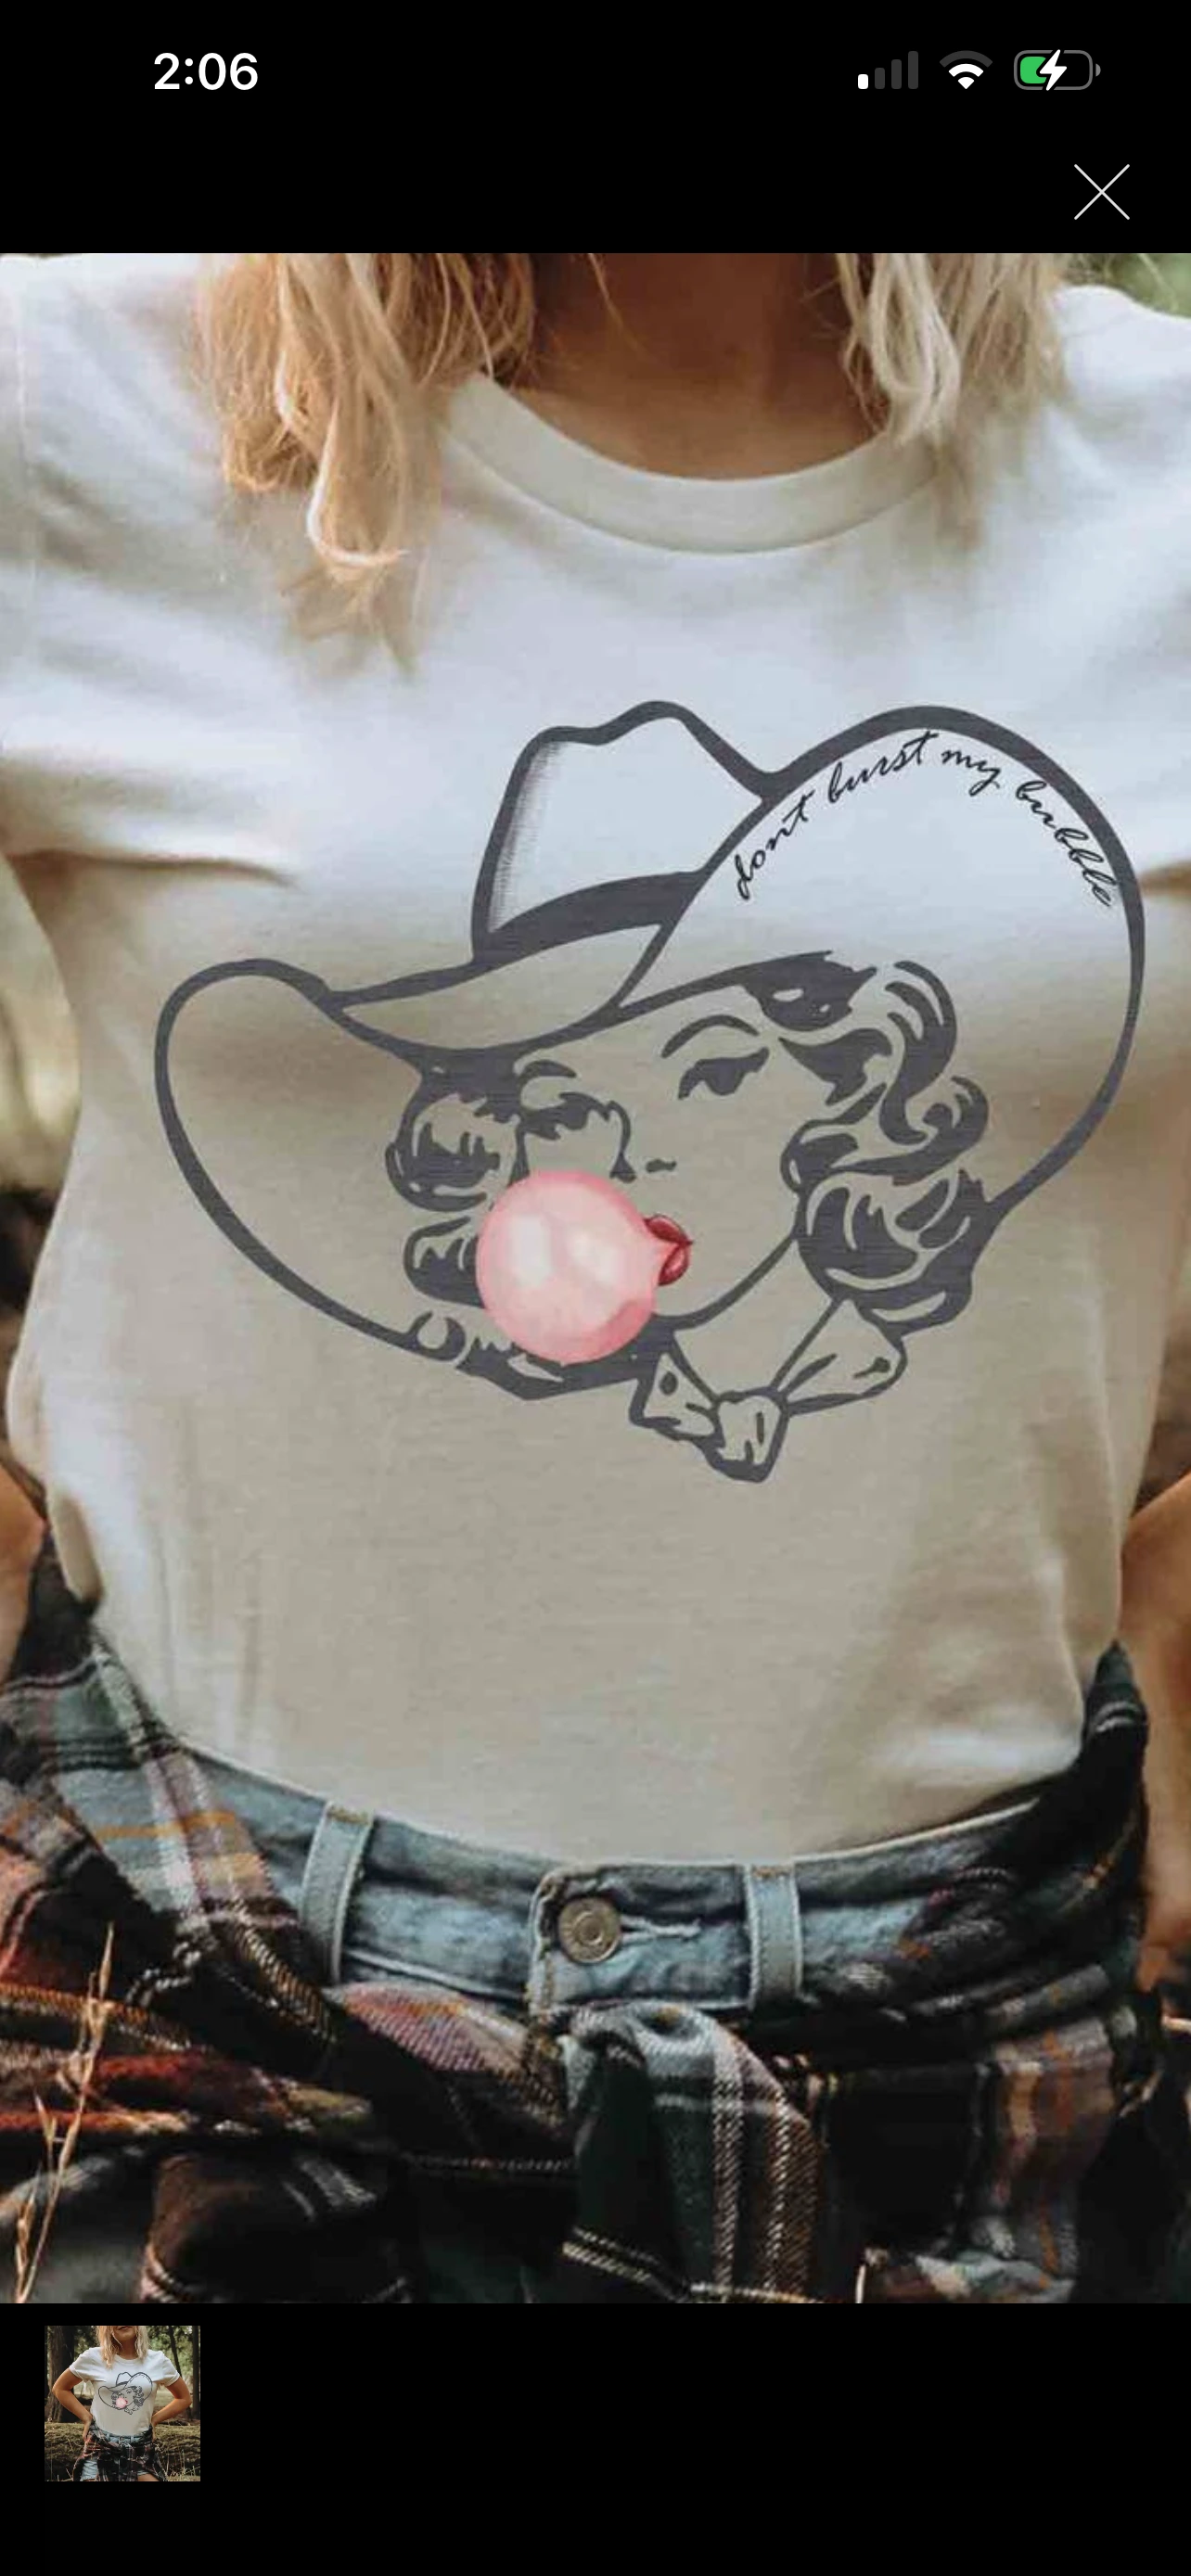
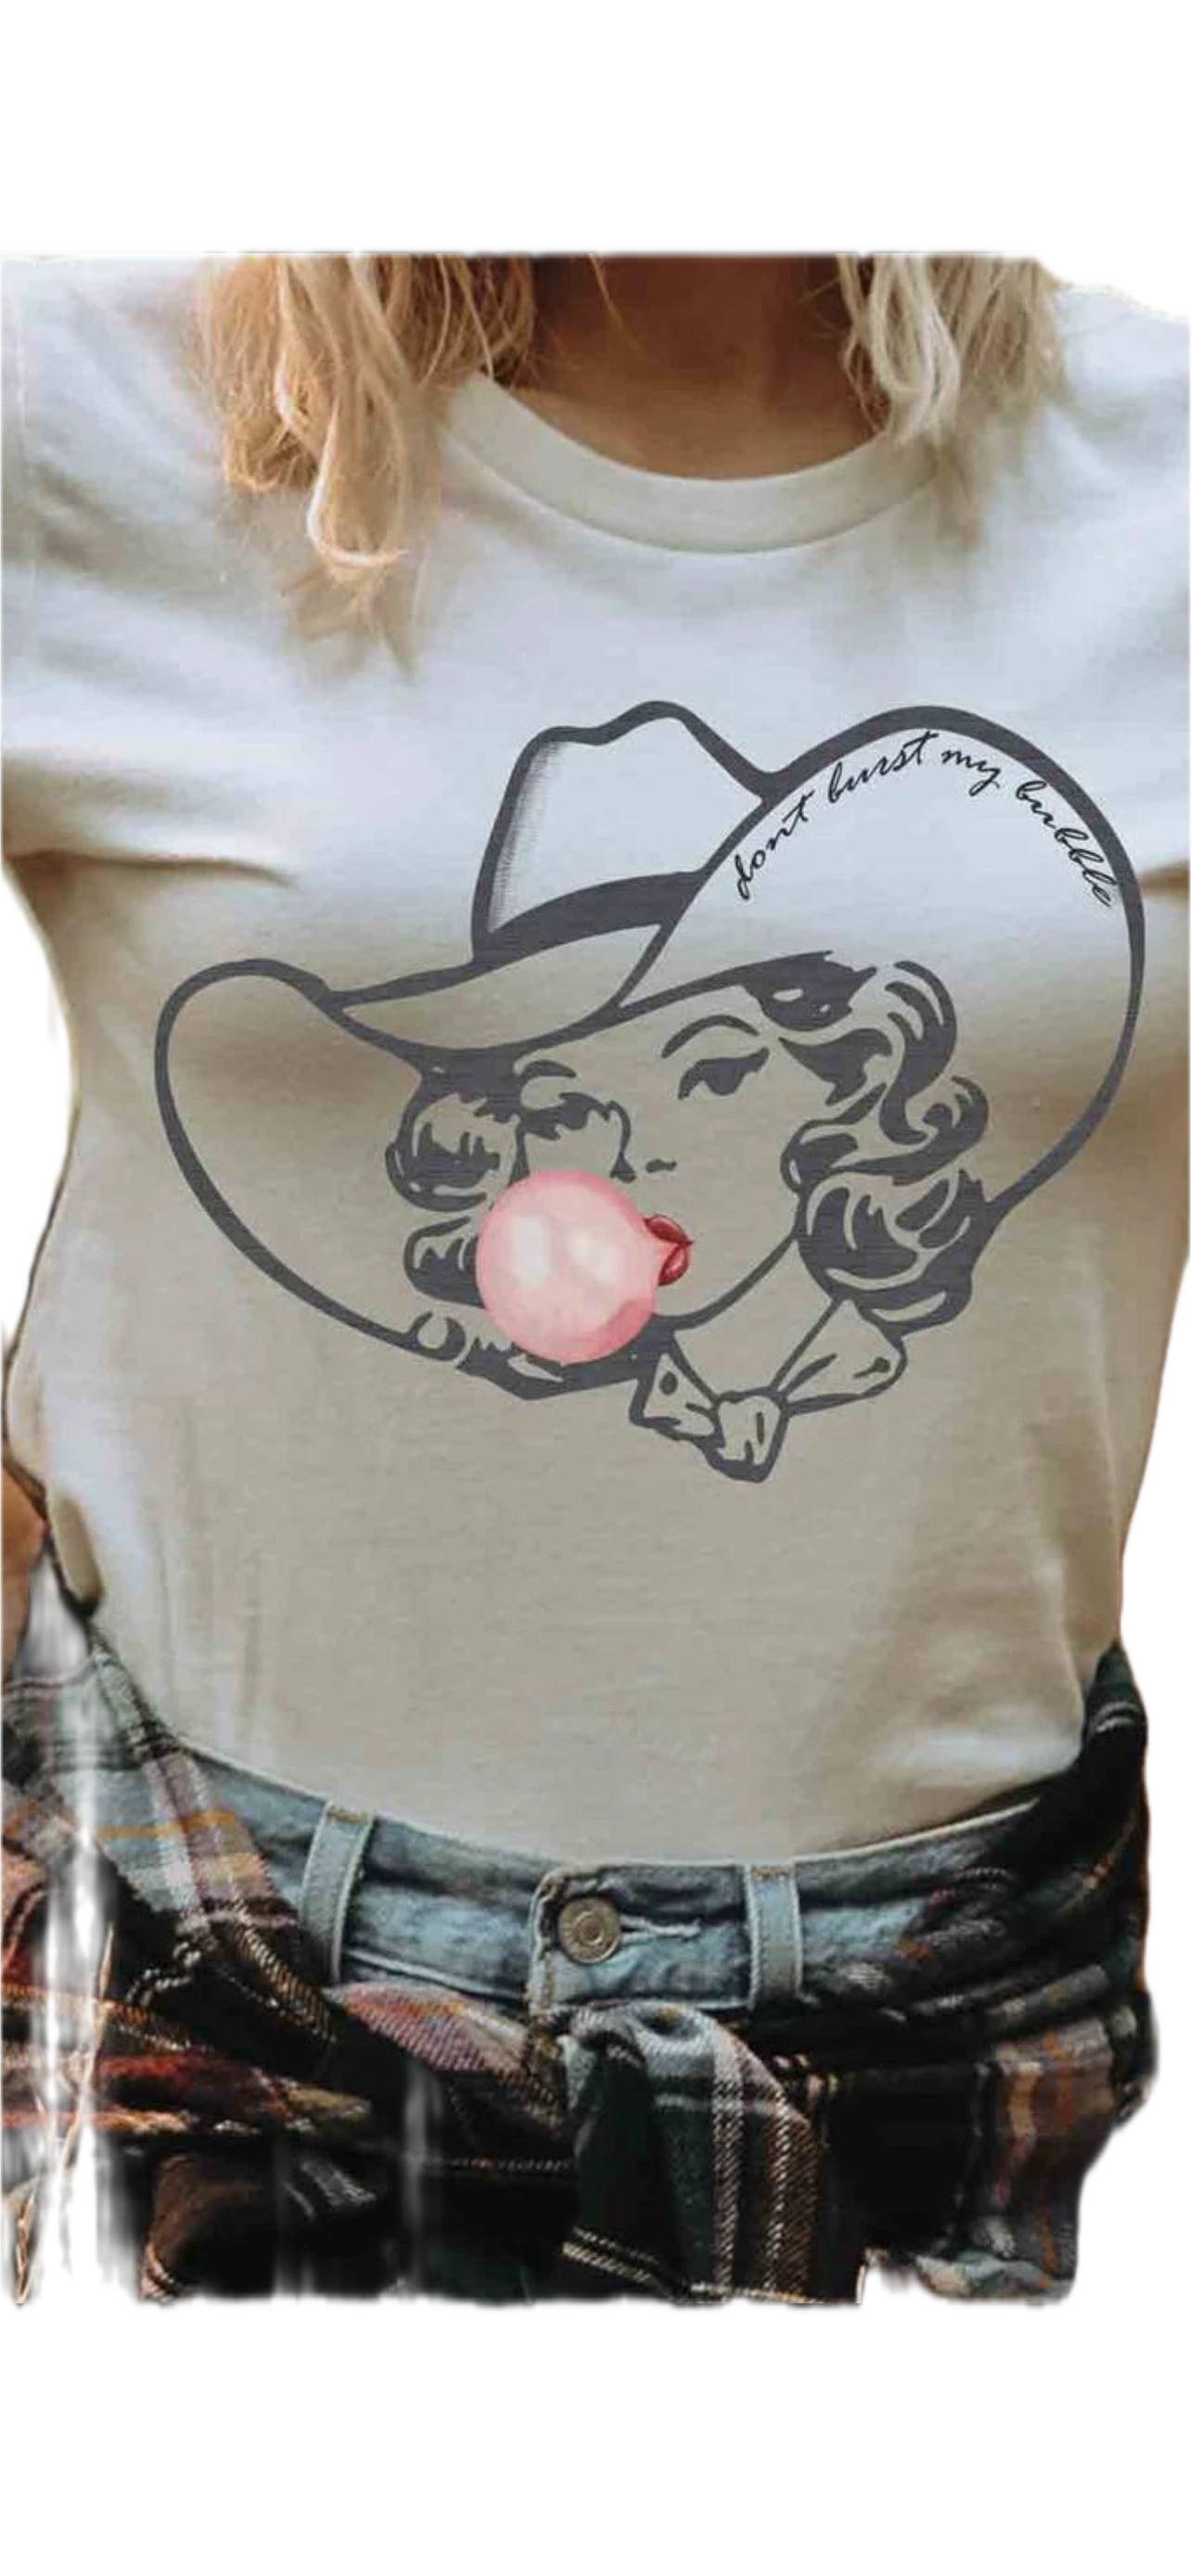
COMMIT:
mobile ui polish.

fixed size for ruby lee.

converted stray png to webp.

removed backrgound from images that were screenshots.

Changed region(s): [[0.0, 0.0, 1.0, 1.0], [0.0, 0.3405, 0.0623, 0.5572]]

diff --git a/styles.css b/styles.css
@@ -1125,6 +1125,15 @@ section {
     background: var(--white-92);
     padding: 16px;
     border-radius: 12px;
+    display: flex;
+    flex-direction: column;
+    align-items: center;
+    text-align: center;
+    gap: 10px;
+}
+
+.tile .copy .btn {
+    align-self: center;
 }
 
 /* Benefits */
@@ -2072,9 +2081,13 @@ footer>section {
             text-align: center;
         }
 
-        .collections>.container {
+        .collections-catalog>.container {
             padding-left: 76px;
             padding-right: 76px;
+        }
+
+        .collections:not(.collections-catalog) .section-head .link {
+            display: none;
         }
 
         .collections-page-header h1 {
@@ -2160,5 +2173,5 @@ footer>section {
 
 .hero-images--with-caption .hero-hurry {
     width: 100%;
-    text-align: center;
+    text-align: left;
 }

diff --git a/src/data/siteData.js b/src/data/siteData.js
@@ -199,15 +199,8 @@ export const collectionPages = [
         id: 37,
         title: 'Ruby Lee',
         price: 264,
-        meta: ['Price: $264'],
+        meta: ['Price: $264', 'Size: M/L'],
         description: 'She is an upcycled Jean jacket. Ruby Lee loves her gold brooches and bright ribbon trims mixed with red and clear beaded dangles of crystals. She has flowers of red burgundy and cream roses all appliquéd on her back. And a matching burgundy mesh peplum of mermaid sequins at the waist. Cuffs are turned up and pockets are removed for more embellishments. A lower long narrow pocket was added with a butterfly brooch. Keeping with her rustic nature, the denim is very soft but her bougie attitude shows off ivory fringe and multiple laces. A red plaid buck brings it all together. Definitely Adirondack Chic! Where she lives.',
-        options: [
-          {
-            name: 'Size',
-            values: ['Medium', 'Large'],
-            placeholder: 'Select size',
-          },
-        ],
         images: [
           '/images/one-offs/jackets/ruby-lee/ruby-lee-1a.webp',
           '/images/one-offs/jackets/ruby-lee/ruby-lee-1b.webp',
@@ -288,7 +281,7 @@ export const collectionPages = [
     title: 'Shirts',
     path: '/collections/shirts',
     count: 0,
-    cardImage: '/images/one-offs/shirts/wende-choice/wende-choice_1a.png',
+    cardImage: '/images/one-offs/shirts/wende-choice/wende-choice_1a.webp',
     description: 'Blinged out shirts and sweatshirts made to stand out.',
     products: [
       {
@@ -310,7 +303,7 @@ export const collectionPages = [
           },
         ],
         images: [
-          '/images/one-offs/shirts/wende-choice/wende-choice_1a.png',
+          '/images/one-offs/shirts/wende-choice/wende-choice_1a.webp',
           '/images/one-offs/shirts/wende-choice/wende-choice_1b.webp',
         ],
         videos: ['/videos/one-offs/shirts/wende-choice/wende-choice.webm'],

diff --git a/docs/index.html b/docs/index.html
@@ -15,8 +15,8 @@
   <link rel="stylesheet" href="https://fonts.googleapis.com/css2?family=Poppins:wght@100;200;300;400;500;600;700&family=Playfair+Display:wght@600;700&display=swap" />
   <link rel="stylesheet" href="https://cdn.jsdelivr.net/npm/bootstrap@5.3.8/dist/css/bootstrap.min.css" />
   <link rel="stylesheet" href="https://cdn.jsdelivr.net/npm/bootstrap-icons@1.11.3/font/bootstrap-icons.css" />
-  <script type="module" crossorigin src="/assets/index-C5cyyCAY.js"></script>
-  <link rel="stylesheet" crossorigin href="/assets/index-WDMrDgT_.css">
+  <script type="module" crossorigin src="/assets/index-BeUqgRCg.js"></script>
+  <link rel="stylesheet" crossorigin href="/assets/index-BWUY_K3B.css">
 </head>
 
 <body>

diff --git a/src/views/CollectionsView.vue b/src/views/CollectionsView.vue
@@ -1,5 +1,5 @@
 <template>
-  <section class="collections">
+  <section class="collections collections-catalog">
     <div class="container">
       <div class="section-head collections-page-header">
         <h1>Browse All Collections</h1>

diff --git a/docs/assets/index-BWUY_K3B.css b/docs/assets/index-BWUY_K3B.css
@@ -1,0 +1,1 @@
+.grid{display:grid;gap:14px}.collections .card{border:1px solid var(--border);border-radius:16px;overflow:hidden;background:#fff}.collections .card-link{display:flex;flex-direction:column;height:100%;color:inherit;text-decoration:none}.collections .card.disabled,.card.disabled{opacity:.55;filter:grayscale(.5);cursor:not-allowed}.collections .media{aspect-ratio:4 / 3;background:linear-gradient(180deg,#ddd,#f2f2f2)}.collections .body{padding:12px 14px}.grid-2{grid-template-columns:repeat(2,1fr)}.grid-3{grid-template-columns:repeat(3,1fr)}.grid-4{grid-template-columns:repeat(4,1fr)}.grid-5{grid-template-columns:repeat(5,1fr)}.grid-6{grid-template-columns:repeat(6,1fr)}.product-lg .media{aspect-ratio:16 / 10}.product-lg .body{padding:16px 16px 20px}.product-lg .title{font-size:16pt;margin-bottom:6px}.product-lg .price{font-weight:600;color:var(--text-secondary)}.product-lg .btn{margin-top:12px}body>section:nth-of-type(3) .grid.grid-4{grid-template-columns:repeat(3,1fr)}body>section:nth-of-type(5) .grid.grid-4{grid-template-columns:repeat(2,1fr)}@media (max-width: 768px){.grid-3,.grid-4,.grid-6{grid-template-columns:repeat(3,minmax(0,1fr))}}:root{--bg: #ffffff;--white: #ffffff;--black: #000000;--transparent: #[phone redacted];--page-bg: #d3d3d3;--muted: #f6f6f6;--ink: #161616;--ink-2: #3b3b3b;--accent: #0f6c78;--accent-2: #03535d;--accent-3: #0b5360;--border: #e8e8e8;--line: #dddddd;--soft-gray: #eeeeee;--success: #0a7c4a;--warning: #b86b00;--error: #a0002b;--brand-red: #b03b2e;--hurry-red: #c41c1c;--dark-surface: #0f1111;--dark-panel: #292929;--soft-ink: #e6e6e6;--placeholder: #d9d9d9;--placeholder-2: #e0e0e0;--disabled-bg: #f0f0f0;--disabled-ink: #8f8f8f;--button-disabled: #c0c6cf;--pale-blue: #cfe9ee;--pale-blue-2: #eef8fa;--pink: #ffc0cb;--slate-gray: #708090;--cart-muted: #666666;--checkout-blue: #007bff;--checkout-green: #28a745;--white-85: #ffffffd9;--white-92: #fffffff0;--white-95: #fffffff2;--white-60: #ffffff99;--black-04: #0000000a;--black-05: #0000000d;--black-08: #[phone redacted];--black-10: #0000001a;--black-50: #[phone redacted];--shadow-ink-06: #0a0a0a0f;--shadow-ink-08: #0a0a0a14;--brand-red-45: #b03b2e73;--accent-60: #0f6c7899;--accent-3-50: #0b536080;--accent-3-55: #0b53608c;--radius: 14px;--shadow: 0 10px 30px var(--shadow-ink-08);--shadow-sm: 0 4px 14px var(--shadow-ink-06);--container: 1180px;--divider-color: var(--white);--divider-thickness: 1px;--qr-size-desktop: 250px;--qr-size-mobile: 250px}*{box-sizing:border-box}html,body{margin:0;padding:0;background:var(--page-bg);color:var(--ink);font-family:Poppins,system-ui,-apple-system,Segoe UI,Roboto,Helvetica,Arial,sans-serif;line-height:1.5;overflow-x:hidden}body{display:flex;flex-direction:column;min-height:100vh}body>footer{margin-top:auto}a{color:inherit;text-decoration:none}img{max-width:100%;display:block}.container{max-width:var(--container);margin:0 auto;padding:0 18px}.bar{background:var(--ink);color:var(--white);font-size:11pt;overflow-x:auto;padding:0 8px}.bar .container{display:flex;flex-direction:column;align-items:center;justify-content:center;gap:6px;text-align:center}.bar .container>*{white-space:normal}.bar .container .qr-link{order:3;display:block;text-align:center;margin:8px 0 4px}.bar .container .qr-link img{width:var(--qr-size-mobile);height:auto;display:inline-block;border-radius:6px}@media (min-width: 980px){.bar .container{gap:8px}}.bar .container .qr-link img{width:var(--qr-size-desktop)}.bar a{color:var(--white);text-decoration:underline;white-space:nowrap}@media (min-width: 980px){.bar .container{display:flex;flex-direction:column;align-items:center;justify-content:center;gap:10px;text-align:center}}header{background:var(--white);border-bottom:0}.nav{position:relative;display:flex;flex-direction:column;align-items:center;justify-content:center;gap:8px;padding:8px 0}.brand{flex-shrink:0;order:0;width:100%}.brand-logos{display:flex;gap:6px;align-items:center;justify-content:center;flex-wrap:wrap}.brand-logos a{display:inline-flex}.brand-logos img{width:min(150px,28vw);height:150px;object-fit:cover;border-radius:6px}@media (max-width: 640px){.nav{padding:6px 0}.brand-logos{gap:4px}.brand-logos img{width:min(112px,36vw);height:112px}}.search{grid-column:1;justify-self:start;max-width:none}.search input{background:var(--transparent);border:0;padding:6px 0;color:var(--accent);font-size:13pt}.search input::placeholder{color:var(--accent);opacity:1}.search .loupe{position:relative;right:auto;top:auto;transform:none;margin-left:8px;opacity:1;color:var(--accent)}.nav-actions{display:flex;gap:12px;align-items:center;justify-content:center;order:2}.nav-aux{display:inline-flex;gap:12px;align-items:center;flex-shrink:0;justify-content:center;width:auto}.nav-main{display:none}.nav-toggle{border:0;background:var(--white-85);color:var(--ink);width:54px;height:54px;border-radius:50%;align-items:center;justify-content:center;position:relative;padding:8px;cursor:pointer;transition:background .18s ease;order:1;display:inline-flex;flex-direction:column;gap:6px}.nav-toggle:hover,.nav-toggle:focus-visible{background:var(--white-95)}.nav-toggle__bar{position:absolute;left:50%;width:24px;height:2px;background:var(--ink);border-radius:999px;transition:transform .2s ease,opacity .18s ease;transform-origin:center}.nav-toggle__bar:nth-child(1){top:14px;transform:translate(-50%)}.nav-toggle__bar:nth-child(2){top:50%;transform:translate(-50%,-50%)}.nav-toggle__bar:nth-child(3){bottom:14px;transform:translate(-50%)}.nav-toggle[aria-expanded=true] .nav-toggle__bar:nth-child(1){top:50%;transform:translate(-50%,-50%) rotate(45deg)}.nav-toggle[aria-expanded=true] .nav-toggle__bar:nth-child(2){opacity:0}.nav-toggle[aria-expanded=true] .nav-toggle__bar:nth-child(3){top:50%;bottom:auto;transform:translate(-50%,-50%) rotate(-45deg)}.mobile-nav{position:fixed;top:18px;left:80px;right:auto;z-index:940;margin:0;padding:0;display:none;flex-direction:column;gap:0;border:1px solid var(--black-08);border-radius:8px;background:var(--white-95);box-shadow:var(--shadow);width:min(310px,calc(100vw - 104px));order:2;overflow:hidden;align-items:stretch;justify-content:flex-start;text-align:left;-webkit-backdrop-filter:blur(12px);backdrop-filter:blur(12px)}.mobile-nav.mobile-nav--open{display:flex}.mobile-nav a{letter-spacing:.12em;font-weight:600;color:var(--ink);text-transform:uppercase;padding:12px 16px;border-bottom:1px solid var(--black-08);width:100%;text-align:left;display:block}.mobile-nav a:last-child{border-bottom:0}.icon-btn{-webkit-appearance:none;-moz-appearance:none;appearance:none;border:0;background:var(--transparent);color:var(--ink);width:auto;height:auto;border-radius:0;font-size:22pt;line-height:1;display:inline-flex;align-items:center;justify-content:center;padding:0;text-decoration:none;cursor:pointer;transition:transform .18s ease,box-shadow .18s ease}.icon-btn:hover{color:var(--accent);transform:translateY(-1px)}.icon-btn:focus-visible{outline:3px solid var(--brand-red-45);outline-offset:3px}.nav-main a{letter-spacing:.18em;font-weight:600;color:var(--ink);text-transform:uppercase;position:relative;padding:8px 2px;font-size:22pt;line-height:1;display:inline-flex;align-items:center;justify-content:center}@media (max-width: 980px){.nav-main{display:none}.nav-toggle{display:inline-flex}.nav-aux{order:4;width:auto;justify-content:center;align-self:center}}@media (max-width: 768px){.icon-btn,.nav-main a{font-size:22pt}}.nav-main a:hover:after,.nav-main a.active:after{content:"";position:absolute;left:0;right:0;bottom:-6px;height:3px;background:var(--ink)}.image-slider{position:relative;width:100vw;height:100vh;background:var(--slate-gray);overflow:hidden;display:flex;align-items:center;justify-content:center;padding:0;--slider-control-gap: max(16px, calc((100vw - min(100vw, var(--container)))/2 + 24px) );transition:height .24s ease}#slider-container{display:flex;width:100%;height:100%;justify-content:center;align-items:center}.slide-item img{max-width:100%;max-height:100%;width:auto;height:auto;object-fit:contain;display:block}#slider-container.single .slide-item{width:100%}#slider-container.double .slide-item{width:50%}#slider-container.triple .slide-item{width:33.3333%}.slide-item{height:100%;display:flex;align-items:center;justify-content:center;padding:clamp(16px,3vw,32px);background-position:center;background-size:cover;background-repeat:no-repeat}#slider-container.double .slide-item:not(:last-child),#slider-container.triple .slide-item:not(:last-child){border-right:4px solid var(--brand-red);box-sizing:border-box}.slider-btn{position:absolute;top:42%;transform:translateY(-50%);z-index:2;background:var(--dark-panel);border:2px solid var(--brand-red);color:var(--white);width:50px;height:50px;display:inline-flex;align-items:center;justify-content:center;border-radius:50%;font-size:24pt;cursor:pointer}.slider-btn{display:none}.prev-btn{left:var(--slider-control-gap)}.next-btn{right:var(--slider-control-gap)}.hero{position:relative;margin-top:0;background:var(--white);padding:40px 0 80px;box-shadow:0 20px 30px var(--black-08);border-radius:34px 34px 0 0}.hero-hurry{text-align:center;font-weight:700;color:var(--hurry-red);letter-spacing:.05em;margin:0 0 24px;text-transform:uppercase}.hero-hurry--inline{margin:0;text-transform:none;font-size:11pt;letter-spacing:.08em}.hero-hurry--left,.hero-hurry--bunny{text-align:center}.hero-grid{display:grid;grid-template-columns:1.2fr .8fr;gap:14px;align-items:stretch;grid-auto-rows:minmax(420px,auto)}@media (max-width: 900px){.hero-grid{grid-template-columns:1fr}}.hero-card{position:relative;border-radius:var(--radius);overflow:hidden;min-height:420px;box-shadow:var(--shadow);display:flex;flex-direction:column;height:100%}.hero-card>img{width:100%;height:auto;max-height:none;object-fit:contain}.hero-placeholder-inline{background:var(--white);border-radius:20px;height:220px;box-shadow:inset 0 0 0 1px var(--black-04);object-fit:contain;width:100%}.hero-placeholder-inline--tall{height:260px}.hero-card .copy{margin-top:18px;background:var(--white-92);-webkit-backdrop-filter:saturate(140%) blur(6px);backdrop-filter:saturate(140%) blur(6px);padding:18px;border-radius:14px;width:100%;flex:1;display:flex;flex-direction:column}.hero-card__placeholder{border-radius:14px;background:var(--white);height:260px;box-shadow:inset 0 0 0 1px var(--black-04);object-fit:contain;width:100%}.hero-placeholder-stack{margin:16px 0 0;display:flex;flex-direction:column;gap:16px;flex:1;justify-content:flex-end}.hero-placeholder-stack .hero-placeholder-inline,.hero-placeholder-stack .hero-card__placeholder{flex-shrink:0}.hero-bunny{width:100%;height:auto;display:block;border-radius:14px;box-shadow:var(--shadow-sm);max-height:clamp(240px,36vw,340px);object-fit:contain}.hero-2{width:auto;max-width:100%;height:auto;align-self:flex-start;display:block;border-radius:14px;box-shadow:var(--shadow-sm);max-height:clamp(240px,36vw,340px);object-fit:contain;object-position:left center}.hero-3{width:auto;max-width:100%;height:auto;align-self:flex-start;display:block;margin-top:18px;border-radius:14px;box-shadow:var(--shadow-sm);max-height:clamp(240px,36vw,340px);object-fit:contain;object-position:left center}.eyebrow{font-size:11pt;letter-spacing:.1em;text-transform:uppercase;color:var(--accent)}h1{font-family:Playfair Display,serif;font-weight:700;margin:.2rem 0 1rem;font-size:31pt;line-height:1.1}.chic-header{text-align:center;font-size:19pt;margin:0 0 12px}.cta{display:flex;gap:10px;margin-top:10px}.btn{display:inline-flex;align-items:center;justify-content:center;gap:6px;padding:12px 22px;border-radius:999px;font-weight:600;text-transform:uppercase;letter-spacing:.06em;border:1px solid var(--transparent);transition:transform .18s ease,box-shadow .18s ease}.btn:focus-visible{outline:3px solid var(--accent-60);outline-offset:3px}.btn-browse{border-color:var(--border);color:var(--ink);background:var(--white);box-shadow:var(--shadow-sm)}.btn-accent{border-color:var(--accent);color:var(--white);background:var(--accent)}.btn-next{border-color:var(--border);background:var(--white);color:var(--ink);box-shadow:inset 0 0 0 1px var(--black-10)}.btn-next:disabled,.btn-next.disabled{background:var(--disabled-bg);color:var(--disabled-ink);cursor:not-allowed;box-shadow:none;pointer-events:default}.product-actions .back-link.disabled{background:var(--disabled-bg);color:var(--disabled-ink);cursor:not-allowed;pointer-events:default;box-shadow:none}.about .btn{background:linear-gradient(135deg,var(--accent),var(--accent-3));border-color:var(--accent-3);box-shadow:0 12px 25px var(--accent-3-50);color:var(--white)}.about .btn:hover{transform:translateY(-1px);box-shadow:0 16px 30px var(--accent-3-55)}.btn-accent:hover{background:var(--accent);border-color:var(--accent);color:var(--white)}.badge{display:inline-flex;align-items:center;gap:8px;background:var(--success);border:1px solid var(--border);padding:8px 10px;border-radius:999px;box-shadow:var(--shadow-sm);white-space:nowrap}section{padding:44px 0}.section-head{display:flex;align-items:baseline;justify-content:space-between;margin-bottom:18px}.collections-page-header{justify-content:center;margin-bottom:34px;padding-bottom:16px;border-bottom:3px solid var(--accent);text-align:center}.collections-page-header h1{margin:0;color:var(--ink);font-family:Poppins,system-ui,-apple-system,Segoe UI,Roboto,Helvetica,Arial,sans-serif;font-size:clamp(28pt,5vw,44pt);font-weight:800;letter-spacing:0;line-height:1.05;text-transform:uppercase}.collection-list{display:grid;grid-template-columns:repeat(auto-fit,minmax(220px,1fr));gap:18px}.collection-card{padding:24px;border-radius:16px;background:var(--white);box-shadow:var(--shadow-sm);text-align:center;cursor:pointer}.collection-link{display:inline-flex;align-items:center;justify-content:center;width:100%;height:100%;font-weight:600;letter-spacing:.08em;text-transform:uppercase;color:var(--ink);text-decoration:none;cursor:pointer}.collection-card h3,.collections .body h3,.highlighted-collection .body h3,.product-card h3,.product-card header h3,.card .body h3{cursor:default}.collection-card:hover,.collection-card:hover .collection-link,.collection-card:hover .collection-link *{cursor:pointer}.collection-group{padding:0;margin:0 0 34px}.collection-group h3{margin:0 0 14px;font-size:18pt;font-weight:800;letter-spacing:.05em;text-transform:uppercase}.collection-group h4{margin:0 0 6px;font-size:14pt;font-weight:800;line-height:1.2}.section-head h2{font-size:19pt;margin:0}.section-title{font-size:24pt;margin:0 0 12px;letter-spacing:.08em}.link{display:inline-flex;align-items:center;justify-content:center;min-height:44px;padding:8px 12px;color:var(--accent);font-size:14pt;font-weight:800;letter-spacing:.04em;line-height:1.15;text-transform:uppercase;text-decoration:underline;text-underline-offset:4px}.link:hover{color:var(--accent-2)}.link:focus-visible{outline:3px solid var(--brand-red-45);outline-offset:3px;border-radius:6px}.highlighted-collection+.highlighted-collection{margin-top:44px}.product{border:1px solid var(--border);border-radius:18px;overflow:hidden;background:var(--white);box-shadow:var(--shadow-sm);display:flex;flex-direction:column}.product .media{width:auto;height:auto;object-fit:cover;background:linear-gradient(180deg,var(--line),var(--soft-gray))}.product .body{padding:12px 12px 16px}.highlighted-collection{padding:12px 18px 24px}.highlighted-collection .grid{display:grid;gap:18px;grid-template-columns:repeat(auto-fit,minmax(260px,1fr))}.highlighted-collection .product{background:var(--white);border-radius:20px}@media (max-width: 960px){.highlighted-collection .grid{grid-template-columns:repeat(auto-fit,minmax(280px,1fr))}}@media (max-width: 720px){.highlighted-collection{padding:12px 10px 24px}.highlighted-collection .grid{grid-template-columns:1fr;max-width:none;margin:0}.highlighted-collection .product{width:100%;margin:0}.highlighted-collection .section-head{max-width:none;margin:0 0 18px}}@media (max-width: 480px){.highlighted-collection{padding:8px 10px 20px}}.highlighted-collection .section-head{justify-content:flex-start;gap:12px;width:100%;padding:0}.highlighted-collection .section-head .link{margin-left:auto}.price{font-weight:600}.product-meta{display:grid;gap:6px;font-size:14pt;line-height:1.45;font-weight:600;color:var(--ink-2)}.description{margin:1rem 0}.pill{font-size:10pt;border:1px solid var(--border);border-radius:999px;display:flex;justify-content:center;width:100%;max-width:clamp(160px,20vw,220px);padding:4px 14px;box-sizing:border-box;margin:0 auto 8px}.split{display:grid;grid-template-columns:1fr 1fr;gap:14px}.tile{position:relative;border-radius:18px;overflow:hidden;min-height:300px;box-shadow:var(--shadow)}.tile .copy{margin-top:18px;background:var(--white-92);padding:16px;border-radius:12px;display:flex;flex-direction:column;align-items:center;text-align:center;gap:10px}.tile .copy .btn{align-self:center}.benefits{display:grid;grid-template-columns:repeat(3,1fr);gap:14px}.benefit{border:1px solid var(--border);border-radius:16px;padding:16px;background:var(--white);box-shadow:var(--shadow-sm)}.subtle2{opacity:.7;font-size:11pt;font-weight:300}.about{display:grid;grid-template-columns:1.1fr .9fr;gap:18px;align-items:stretch}.about .card{display:flex;flex-direction:column;justify-content:flex-start}.about .card{border:1px solid var(--border);border-radius:18px;padding:20px;background:var(--white);box-shadow:var(--shadow-sm)}.newsletter{position:relative;border-radius:20px;overflow:hidden;background:linear-gradient(120deg,var(--pale-blue),var(--pale-blue-2))}.newsletter .inner{display:grid;grid-template-columns:1.2fr .8fr;gap:20px;align-items:center;padding:28px}.newsletter h3{margin:0 0 6px}.field{display:flex;gap:8px;margin-top:10px}.field input{flex:1;padding:12px 14px;border:1px solid var(--border);border-radius:12px}footer{background:var(--dark-surface);color:var(--soft-ink);margin-top:24px}footer a{color:var(--soft-ink)}footer .footer-actions{position:fixed;top:18px;right:18px;z-index:950;display:flex;flex-direction:column;align-items:center;justify-content:flex-start;gap:8px;width:124px;padding:8px;border:1px solid var(--black-08);border-radius:22px;background:var(--white-92);box-shadow:var(--shadow-sm);-webkit-backdrop-filter:blur(12px);backdrop-filter:blur(12px)}footer .footer-actions a{display:inline-flex;align-items:center;justify-content:center;gap:6px;width:100%;min-height:42px;padding:8px 10px;border:0;border-radius:999px;background:var(--white);color:var(--ink);box-shadow:0 2px 10px var(--black-08);font-size:9pt;font-weight:600;letter-spacing:.04em;line-height:1.1;text-transform:uppercase;transition:transform .18s ease,color .18s ease}footer .footer-actions i{display:inline-flex;align-items:center;justify-content:center;font-size:13pt;line-height:1}footer .footer-actions a:hover,footer .footer-actions a:focus-visible{color:var(--accent);transform:translateY(-1px)}footer .footer-actions a:focus-visible{outline:3px solid var(--brand-red-45);outline-offset:3px}@media (max-width: 640px){footer .footer-actions{top:12px;right:10px;width:52px;border-radius:999px}footer .footer-actions a{width:42px;height:42px;min-height:42px;padding:0}footer .footer-actions span{position:absolute;width:1px;height:1px;overflow:hidden;clip:rect(0,0,0,0);white-space:nowrap}}footer,footer .container,footer .footer-grid,footer .copyright,footer #foot-about,footer .foot-toggle-wrap{background:var(--dark-surface)}footer .foot-toggle-wrap{position:relative;display:flex;align-items:center;justify-content:center;gap:10px;overflow:visible}footer .foot-toggle-wrap:after{content:"";position:absolute;left:50%;margin-left:-50vw;width:100vw;top:0;border-bottom:var(--divider-thickness) solid var(--divider-color);pointer-events:default}footer .foot-toggle-wrap:before{content:none}footer .footer-qr{display:flex;flex-direction:column;align-items:center;justify-content:center;width:100%;padding:0;margin:0 auto}footer .footer-qr .qr-link{width:min(320px,90vw);margin:0 auto;text-align:center}footer .footer-qr .qr-link span{display:inline-block;width:100%;text-align:center;margin-top:.6rem}footer .footer-qr .qr-link img{display:block;margin:0 auto}footer .collapsible>*:first-child{margin-top:0}footer .collapsible>*:last-child{margin-bottom:0}footer .toggle-label{display:inline-block;margin:0 8px 0 0;font-size:11pt;color:var(--white)}footer .foot-toggle{display:inline-block;cursor:pointer;padding:4px 0;line-height:1;background:var(--transparent);border:0;color:inherit}footer>section{padding:0;margin:0}#foot-section-1{padding-top:0;margin-top:0}.footer-left p.hare{margin:-16px 0 12px;padding:0}.special-footer-p{font-weight:400;font-family:Segoe UI,Helvetica,Arial,Times New Roman,Times,serif,sans-serif;font-size:12pt;margin:0 0 12px}.footer-grid{display:grid;grid-template-columns:1fr 1fr;align-items:center;gap:20px;padding:24px 18px 0}.footer-left{text-align:left}.footer-right{text-align:center}.footer-right .field{justify-content:center}.footer-brand{display:flex;flex-direction:column;align-items:center;text-align:center;gap:6px;margin-bottom:12px}.footer-brand__title{margin:0}.footer-brand__title,.footer-brand__title p,.footer-brand__title a{color:var(--pink)}.footer-brand__tagline,.footer-brand__tagline p,.footer-brand__tagline a{color:var(--white)}.footer-brand__tagline a{text-decoration-color:var(--white-60)}#foot-section-1 .footer-grid{grid-template-columns:1fr;justify-items:center;gap:16px}#foot-section-1 .footer-left,#foot-section-1 .footer-right{text-align:center}#foot-section-1 .footer-left img{width:260px;max-width:100%;height:auto;margin:10px auto 0;transform:none;transform-origin:center}#foot-section-1 .footer-right .field{justify-content:center}#foot-links{padding:24px 18px 0;text-align:center;display:flex;flex-direction:column;align-items:center;gap:12px}#foot-section-2 #foot-links .foot-links{display:flex;flex-direction:column;align-items:center;gap:12px}#foot-section-2 #foot-links .foot-links .foot-col{width:100%}#foot-section-2 #foot-links .foot-col h4{margin:0 0 8px}#foot-section-2 #foot-links .foot-col ul{list-style:none;padding:0;margin:0}#foot-section-2 #foot-links .foot-col li{margin:4px 0}.subtle{color:var(--ink-2);opacity:.85;font-size:11pt;font-weight:300}.hare,.hare p,.hare a{color:var(--pink);font-size:11pt;font-weight:200}.copyright{position:relative;border-top:0;background:var(--dark-surface)}.copyright:before{content:"";position:absolute;left:50%;margin-left:-50vw;width:100vw;top:0;border-top:var(--divider-thickness) solid var(--divider-color);pointer-events:default}.collapsible[data-collapsed=true],.collapsible[aria-hidden=true]{display:none!important}.hide-sm{display:block}.show-sm{display:none}.icon-plusminus{color:var(--white)!important;width:56px;height:56px;border:1px solid var(--border);background:var(--transparent);display:inline-flex;align-items:center;justify-content:center;cursor:pointer;box-shadow:var(--shadow-sm);transition:transform .18s ease}.icon-plusminus:active{transform:scale(.96)}.icon-plusminus:before{content:"+";font-size:26pt;line-height:1;transition:opacity .18s ease,transform .18s ease;opacity:.95}.icon-plusminus[aria-expanded=true]:before{content:"−";transform:rotate(0) scale(1.02)}.sr-only{position:absolute;width:1px;height:1px;padding:0;margin:-1px;overflow:hidden;clip:rect(0,0,0,0);white-space:nowrap;border:0}.product-page{display:flex;flex-direction:column;align-items:center;gap:24px}.products-header{display:flex;flex-direction:column;align-items:flex-start;gap:8px;margin-bottom:24px}.product-actions{width:min(720px,100%);text-align:left;margin:0 auto 6px;display:flex;justify-content:center;align-items:center;flex-wrap:wrap;gap:8px}.product-actions .back-link:hover,.product-actions .btn-next:hover,.product-actions .btn-browse:hover{background:var(--white);color:var(--ink);border-color:var(--border)}.product-actions .back-link:focus-visible,.product-actions .btn-next:focus-visible,.product-actions .btn-browse:focus-visible{outline:none;box-shadow:var(--shadow-sm)}.back-link{letter-spacing:.06em;text-transform:uppercase;font-weight:600;color:var(--ink);text-decoration:none;padding:0}.product-actions .back-link{display:inline-flex;align-items:center;justify-content:center;gap:6px;padding:10px 24px;border:1px solid var(--border);border-radius:999px;background:var(--white);box-shadow:var(--shadow-sm)}.product-grid{display:grid;gap:24px;grid-template-columns:repeat(2,minmax(0,1fr))}.card.disabled .addtocart{pointer-events:default;background:var(--button-disabled);color:var(--ink-2);border-color:var(--transparent)}.product-grid{grid-template-columns:1fr}.addtocart{background-color:var(--accent);color:var(--white);padding:10px 0;border:none;border-radius:5px;font-size:12pt;cursor:pointer;transition:background-color .3s ease;display:inline-flex;justify-content:center;align-items:center;width:100%;white-space:nowrap}.addtocart:disabled{background:var(--button-disabled);color:var(--ink-2);cursor:not-allowed}.product-card{background:var(--white);border:1px solid var(--border);border-radius:18px;padding:18px;display:flex;flex-direction:column;gap:12px;box-shadow:var(--shadow-sm)}.product-card .addtocart{margin-top:auto;align-self:stretch}.product-card header{display:flex;flex-direction:column;gap:6px;cursor:default}.product-card header p{font-size:14pt;line-height:1.6;margin:0}.product-description{display:grid;gap:6px}.product-description h4{margin:0;font-size:16pt;line-height:1.3;color:var(--ink)}.product-options{display:grid;gap:10px}.product-option{display:grid;gap:6px;font-size:13pt;line-height:1.35;font-weight:600;color:var(--ink)}.product-option select{width:100%;min-height:42px;border:1px solid var(--border);border-radius:8px;background:var(--white);color:var(--ink);font:inherit;padding:8px 12px}.product-card h3,.product-card .product-meta,.product-card .product-meta *,.product-images,.product-images .placeholder,.image-frame{cursor:default}.product-images{display:grid;gap:12px;grid-template-columns:repeat(2,minmax(0,1fr));place-items:center}.product-images>*{width:100%;border-radius:16px;overflow:hidden;background:linear-gradient(180deg,var(--muted),var(--soft-ink))}.product-images>:only-child{grid-column:1 / -1}@media (max-width: 760px){.product-images{grid-template-columns:1fr}}.product-images img,.product-images video{width:100%;height:100%;object-fit:contain;display:block;border-radius:0}@media (max-width: 760px){.product-images img{height:auto}}.image-frame{width:100%;height:clamp(320px,45vw,420px);aspect-ratio:4 / 5;border-radius:16px;overflow:hidden;background:linear-gradient(180deg,var(--muted),var(--soft-ink))}.image-frame img{width:100%;height:100%;object-fit:contain;display:block}@media (max-width: 760px){.image-frame{height:auto}}.product-images .placeholder{display:flex;align-items:center;justify-content:center;aspect-ratio:4 / 5;height:clamp(320px,45vw,420px);cursor:default}.product-images .placeholder img{width:100%;height:100%;object-fit:cover}@media (max-width: 760px){.product-images .placeholder{height:auto}@media (min-width: 769px){.icon-plusminus{display:inline-flex!important}footer .foot-toggle-wrap{display:flex!important;align-items:center!important;justify-content:center!important;gap:10px!important}footer .foot-toggle-wrap>*{margin-left:0!important;margin-right:0!important;flex:0 0 auto!important}}@media (max-width: 600px){.slider-btn{width:56px;height:56px;font-size:26pt}}@media (max-width: 980px){.nav{flex-direction:column;align-items:center;justify-content:center;gap:12px}.search{width:100%;justify-self:stretch;order:3}.brand{order:0}.nav-toggle{order:2}.nav-main{display:none!important}.mobile-nav{top:12px;left:70px;width:min(290px,calc(100vw - 82px));order:3}.mobile-nav.mobile-nav--open{background:var(--white-95);box-shadow:var(--shadow)}}.qr-link{display:flex;flex-direction:column;align-items:center;gap:1rem;text-align:center;margin:10px auto;padding:0;border:none;background:var(--transparent);width:min(320px,90vw);justify-content:center}.qr-link img{width:250px;height:auto;display:block;margin:0 auto}@media (max-width: 600px){.hero-grid,.split,.about{grid-template-columns:1fr}.benefits{grid-template-columns:1fr;gap:10px}h1{font-size:22pt;line-height:1.2}#foot-section-1 .footer-left img{width:200px}}@media (max-width: 768px){.image-slider{height:auto;min-height:0}#slider-container{flex-direction:column;height:auto}#slider-container.single{min-height:clamp(420px,72vh,620px)}#slider-container.single .slide-item,#slider-container.double .slide-item,#slider-container.triple .slide-item{width:100%;height:clamp(260px,58vh,430px);padding:14px}#slider-container.double .slide-item:not(:last-child),#slider-container.triple .slide-item:not(:last-child){border-right:0;border-bottom:4px solid var(--brand-red)}.slide-item img{width:100%;height:100%;object-fit:contain}.hero-placeholder-stack{align-items:center}.hero-placeholder-stack .hero-placeholder-inline,.hero-placeholder-stack .hero-card__placeholder{width:min(100%,720px)}.hero-card .hero-images--boots{width:fit-content;max-width:100%;align-items:flex-start;margin-left:0;margin-right:auto}.hero-images--boots .hero-2{align-self:flex-start;object-position:left center}.hero-images--with-caption .hero-hurry{text-align:left}.hero-hurry--left,.hero-hurry--bunny{text-align:center}.collections-catalog>.container{padding-left:76px;padding-right:76px}.collections:not(.collections-catalog) .section-head .link{display:none}.collections-page-header h1{font-size:clamp(22pt,8vw,30pt)}.collection-group h3{font-size:clamp(13pt,5vw,16pt);line-height:1.15}.collection-list{grid-template-columns:minmax(0,1fr)}.collection-card{padding:22px 12px}.hide-sm{display:none}.show-sm{display:inline-flex}.highlighted-collection .body h3{font-size:12pt}.grid .body h3{font-size:11pt}.pill{max-width:clamp(120px,86%,170px);overflow-wrap:anywhere}}@media (max-width: 480px){.bar .container{justify-content:space-between;flex-wrap:wrap;padding:10px 12px}}@media (max-width: 768px){#foot-section-2 #foot-links .foot-links{flex-direction:column;align-items:center;gap:12px}}}.hero-card img{max-width:100%}.hero-card .hero-images{display:flex;flex-wrap:wrap}.hero-card .hero-images--with-caption{flex-direction:column;align-items:flex-start;flex-wrap:nowrap;gap:14px;margin-top:18px}.hero-images--with-caption .hero-hurry{width:100%;text-align:left}.social{display:grid;grid-template-columns:repeat(6,1fr);gap:8px}.social img{width:100%;height:auto;display:block}.socialcontainer{max-width:1180px;margin:0 auto;padding:0 18px}.socialsection-head{color:#8a2be2;display:flex;align-items:baseline;justify-content:space-between;margin-bottom:18px}.socialsection-head h2{font-size:1.6rem;margin:0}.sociallink{color:#00f}@media (max-width: 980px){.social{grid-template-columns:repeat(auto-fit,minmax(140px,1fr))}}@media (max-width: 768px){.social{grid-template-columns:repeat(2,minmax(0,1fr))}}.cart-count[data-v-6dcc7488]{position:absolute;top:-8px;right:-8px;background:var(--error);color:var(--white);border-radius:50%;padding:2px 6px;font-size:9pt;min-width:18px;text-align:center}.nav-actions[data-v-6dcc7488]{position:fixed;top:18px;left:18px;z-index:960;display:flex;flex-direction:column;gap:8px;align-items:center;justify-content:flex-start;padding:8px;border:1px solid var(--black-08);border-radius:999px;background:var(--white-92);box-shadow:var(--shadow-sm);-webkit-backdrop-filter:blur(12px);backdrop-filter:blur(12px)}.icon-btn[data-v-6dcc7488]{position:relative;width:42px;height:42px;flex:0 0 42px;border-radius:50%;background:var(--white);box-shadow:0 2px 10px var(--black-08)}.icon-btn .bi[data-v-6dcc7488]{display:inline-flex;align-items:center;justify-content:center;line-height:1}.nav-toggle[data-v-6dcc7488]{width:42px;height:42px;flex:0 0 42px;order:0;background:var(--white);box-shadow:0 2px 10px var(--black-08)}.nav-toggle__bar[data-v-6dcc7488]{width:21px}.nav-toggle__bar[data-v-6dcc7488]:nth-child(1){top:10px}.nav-toggle__bar[data-v-6dcc7488]:nth-child(3){bottom:10px}@media (max-width: 640px){.nav-actions[data-v-6dcc7488]{top:12px;left:10px}}.cart-sidebar-overlay[data-v-b9383594]{position:fixed;top:0;right:0;width:100%;height:100%;background:var(--black-50);z-index:1000;display:flex;justify-content:flex-end}.cart-sidebar[data-v-b9383594]{width:400px;max-width:90vw;height:100%;background:var(--white);box-shadow:-2px 0 5px var(--black-10);display:flex;flex-direction:column;overflow-y:auto}.cart-header[data-v-b9383594]{display:flex;justify-content:space-between;align-items:center;padding:20px;border-bottom:1px solid var(--line)}.close-btn[data-v-b9383594]{background:none;border:none;font-size:18pt;cursor:pointer}.empty-cart[data-v-b9383594]{padding:20px;text-align:center}.loading[data-v-b9383594]{padding:20px;text-align:center;color:var(--cart-muted)}.cart-items[data-v-b9383594]{flex:1;padding:20px;overflow-y:auto}.cart-item[data-v-b9383594]{display:flex;flex-direction:column;border:1px solid var(--line);padding:10px;margin-bottom:10px}.item-details[data-v-b9383594]{margin-bottom:10px}.item-controls[data-v-b9383594]{display:flex;align-items:center;gap:10px;margin-bottom:10px}.item-total[data-v-b9383594]{font-weight:700;text-align:right}.cart-summary[data-v-b9383594]{margin-top:20px;padding-top:20px;border-top:1px solid var(--line);text-align:center}.btn[data-v-b9383594]{padding:10px 20px;background:var(--checkout-blue);color:var(--white);border:none;cursor:pointer;margin:5px}.btn-primary[data-v-b9383594]{background:var(--checkout-green)}.floating-cart-btn[data-v-1272abba]{position:fixed;right:18px;bottom:18px;z-index:930;width:58px;height:58px;border:0;border-radius:50%;background:var(--accent);color:var(--white);box-shadow:var(--shadow);display:inline-flex;align-items:center;justify-content:center;font-size:24pt;line-height:1;cursor:pointer;transition:transform .18s ease,background .18s ease}.floating-cart-btn[data-v-1272abba]:hover{background:var(--accent-2);transform:translateY(-2px)}.floating-cart-btn[data-v-1272abba]:focus-visible{outline:3px solid var(--brand-red-45);outline-offset:4px}.floating-cart-btn__count[data-v-1272abba]{position:absolute;top:-5px;right:-5px;min-width:22px;height:22px;padding:2px 6px;border-radius:999px;background:var(--error);color:var(--white);border:2px solid var(--white);font-size:10pt;font-weight:700;line-height:16px}@media (max-width: 640px){.floating-cart-btn[data-v-1272abba]{right:14px;bottom:14px;width:54px;height:54px;font-size:22pt}}*{padding:0;margin:0;box-sizing:border-box}.pnf-wrapper{display:flex;flex-direction:column;justify-content:space-between;font-family:Arial,Helvetica,sans-serif}.header1-h1{color:#fff;background-color:#000;max-width:684px;padding:16px;border-radius:3px;font-size:16pt;font-weight:300;margin:auto auto 16px}.header1-p{color:#000;background-color:#ed2024;max-width:684px;padding:16px;border-radius:3px;font-size:14pt;margin:16px auto auto;line-height:1.3rem}.header1-p b{font-weight:700}.header2-h2{color:#fff;background-color:#ed2024;max-width:684px;padding:16px;border-radius:34.6px;border-style:solid;border-width:2px;line-height:34.6px;font-weight:700;margin:16px auto}.header2-h2 b{font-size:32px}.header3-h3{color:#48a740;font-size:16pt;font-weight:400;padding:16px 16px 0;margin:auto}.header3-p{color:#ed2024;background-color:#000;max-width:684px;padding:16px;font-size:14pt;font-weight:300;margin:0 auto 16px;border-radius:3px}.text-center{text-align:center}.page-header-design{margin:auto}#rectangle1{background:#ed2024;margin:auto;width:100%;height:60px}#rectangle2{background-color:#000}.logo-container{width:302px;height:fit-content;margin:auto;padding-top:16px;padding-bottom:16px}#rectangle3{background:#000;width:100%;height:20px;margin-top:16px}#rectangle4{background-color:#ed2024;width:100%;height:59.5px}#rectangle2 img{width:100%;height:100%}@media screen and (max-width: 712px){.content-wrapper{width:95%;margin:auto}.header2-h2{width:95%;margin:initial auto}}